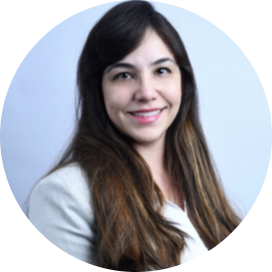
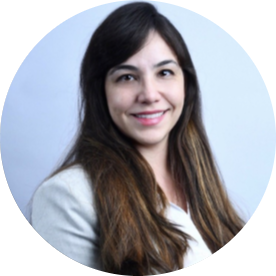
created about css file and updated js file

diff --git a/public/styles/about.css b/public/styles/about.css
@@ -1,0 +1,115 @@
+/* About CSS file
+Name: Andrea Cavalcanti Nascimento
+Student Number: 301250129
+Date: Oct 7th, 2022 */
+
+body {
+    min-height: 100vh;  
+}
+
+.title{
+    text-align: center;
+    border-bottom: 5px solid #5C2E7E;
+    margin: 0 62px 30px 62px;
+    padding-top: 50px;
+    padding-bottom: 3px;
+    font-size: 200%;
+}
+
+/* Main Container */
+.main-container{
+    display: flex;
+    justify-content: center;
+    align-items: center;
+    align-content: center;
+    max-width: 900px;
+    margin: auto;
+}
+
+.img-container{
+    display: flex;
+    flex-direction: column;
+    position: relative;
+    top: 0;
+    left: 0;
+}
+
+.img-circle{
+    border: 5px solid #4C6793;
+    border-radius: 100%;
+    transform: rotate(0deg);
+    animation: move 1.5s linear infinite;
+    border-top: 8px solid #8BBCCC;
+    position: relative;
+    top: 0;
+    left: 0;
+}
+@keyframes move{
+    to{transform: rotate(360deg);}
+}
+
+.img-profile{
+    position: absolute;
+    top: 3px;
+    left: 3px;
+}
+
+.para-name{
+    text-align: center;
+    font-size: 20px;
+    color: #5C2E7E;
+    font-weight: bold; 
+    padding-top: 10px;   
+}
+
+.desc-container{
+    font-size: 20px;
+    font-weight: 500;
+    padding: 70px;
+}
+
+/* Section container = Resume + Contact Button */
+.section-container{
+    display: flex;
+    flex-direction: column;
+    justify-content: center;
+    align-items: center;
+    align-content: center;
+    max-width: 700px;
+    margin: auto;
+}
+
+.downl{
+    color: #646769;
+    border-bottom: 3px solid #5d4170;
+    font-size: 20px;
+    font-weight: bold;
+    padding-bottom: 10px;
+}
+
+/* Donwload button */
+.btn-resume {
+    color: #ffffff;
+    background-color: #8BBCCC;
+    font-size: 15px;
+    font-weight: bold;
+    cursor: pointer;
+    border-radius: 8px;
+    border-style: none;
+    box-sizing: border-box;
+    padding: 20px 32px;
+    margin-bottom: 30px;
+}
+
+/* Contact button */
+.btn-contact {
+    color: #ffffff;
+    background-color: #4C6793;
+    font-size: 15px;
+    font-weight: bold;
+    cursor: pointer;
+    border-radius: 8px;
+    border-style: none;
+    box-sizing: border-box;
+    padding: 20px 27px;
+}

diff --git a/public/scripts/app.js b/public/scripts/app.js
@@ -1,3 +1,8 @@
+// JS file
+// Name: Andrea Cavalcanti Nascimento
+// Student Number: 301250129
+// Date: Oct 7th, 2022
+
 //IIFE
 (function(){
     function Start(){
@@ -6,3 +11,48 @@
 
     window.addEventListener('load', Start);
 })();
+
+//***** HOME PAGE *****
+//Redirect to about page
+function clickAbout(){
+    window.location.href="./about"
+}
+
+//***** ABOUT PAGE *****
+//Redirect to contact page
+function clickContact(){
+    window.location.href="./contact"
+}
+
+//***** CONTACT PAGE *****
+//Carroussel
+var i = 0; 
+var images = [];
+var time = 1000;
+
+//Image List
+images[0] = './content/images/Avatar1.png';
+images[1] = './content/images/Avatar2.png';
+images[2] = './content/images/Avatar3.png';
+
+
+//Slideshow
+function slideImg(){
+    document.slide.src = images[i];
+
+    if (i< images.length - 1) {
+        i++;
+    } else {
+        i =0;
+    }
+
+    setTimeout ("slideImg()", time);
+
+}
+
+window.onload = slideImg;
+
+//Redirect to Home page
+function clickSend(){
+    window.location.href="./home"
+}

diff --git a/public/styles/contact.css b/public/styles/contact.css
@@ -75,11 +75,11 @@ body {
 }
 
 /* Submit button */
-.btn-submit {
+/* .btn-submit {
     outline: none;
     border: 0;
     background-color: white;
-}
+} */
 
 .btn-submit {
     color: #ffffff;
